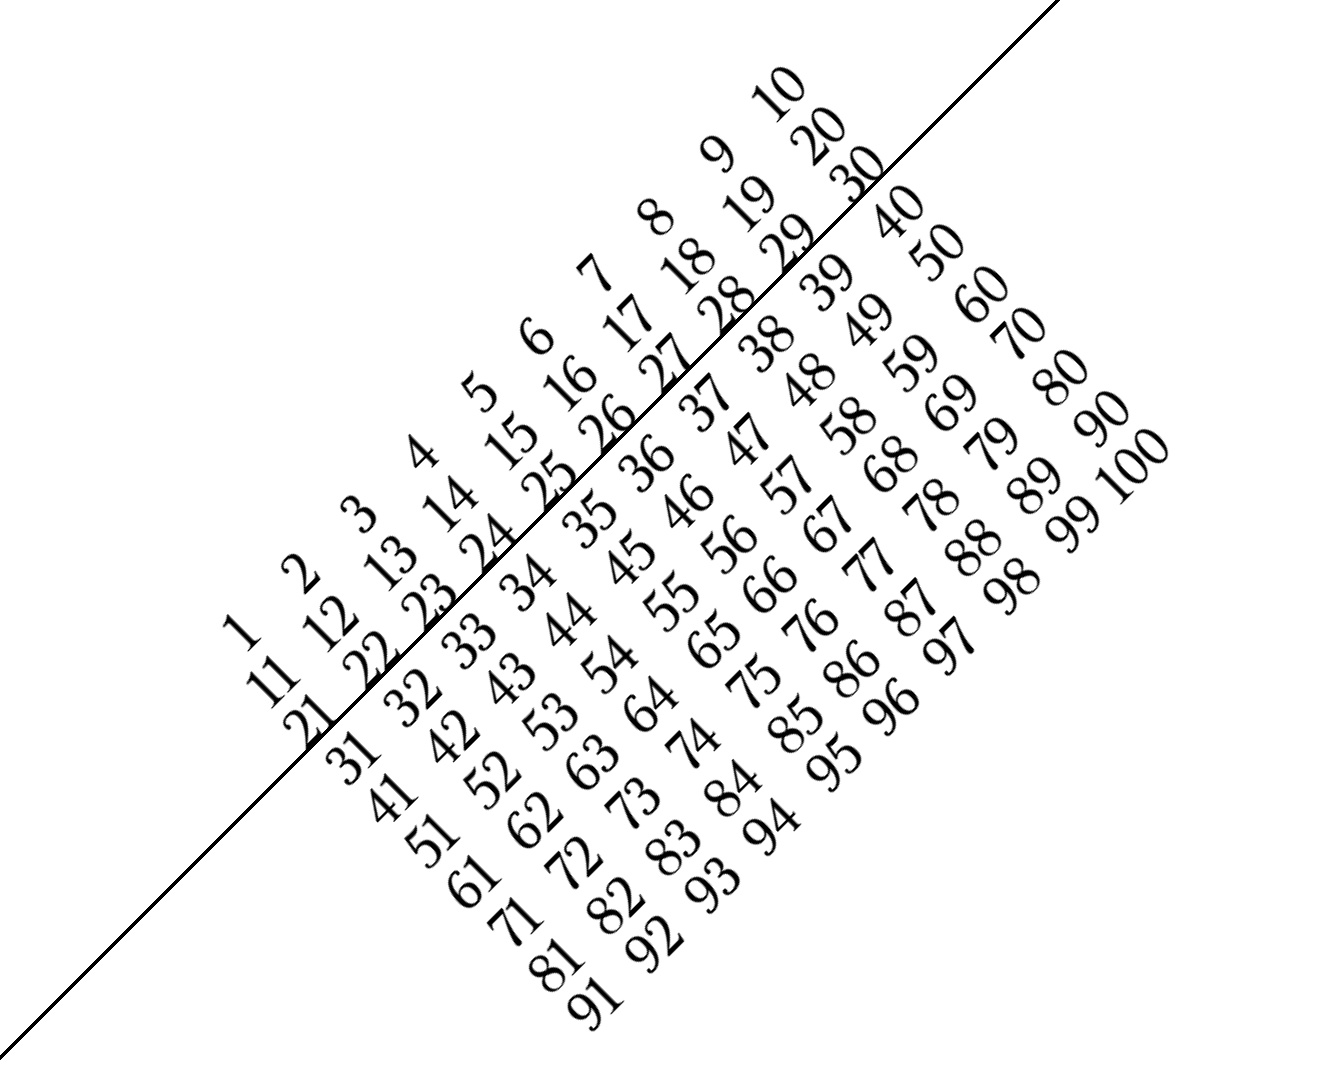
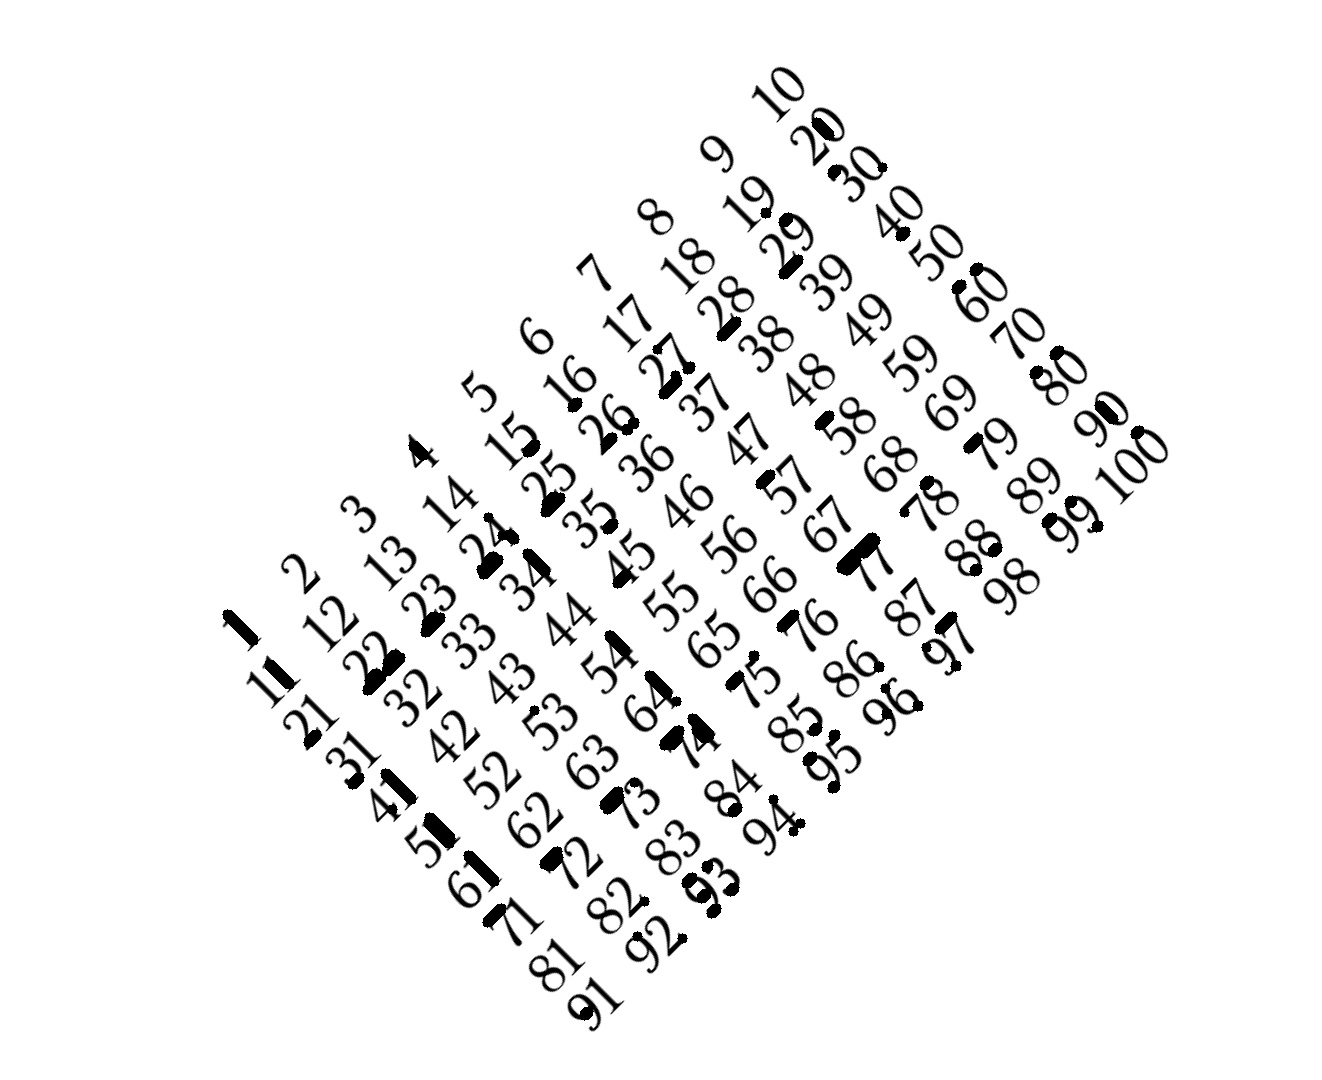
update on sad_text_allignment

diff --git a/src/sad_text_allignment.py b/src/sad_text_allignment.py
@@ -15,38 +15,24 @@ def find_lines(img):
     #plt.imshow(edges,cmap = 'gray')
     #plt.show()
 
-    lines = cv2.HoughLines(edges,1,np.pi/180,100)
-    for x in lines[0]:
-        print(x)
+    lines = cv2.HoughLinesP(edges,1,np.pi/180,200)
+
+    #print(lines[0][0])
+    #for x,y,z,a in lines[0]:
+    #    print(x, y, z, a)
     #plt.imshow(lines)
     #plt.show()
 
+    N = lines.shape[0]
+    for i in range(N):
+        x1 = lines[i][0][0]
+        y1 = lines[i][0][1]
+        x2 = lines[i][0][2]
+        y2 = lines[i][0][3]
 
-    for rho,theta in lines[0]:
-        a = np.cos(theta)
-        b = np.sin(theta)
-        x0 = a*rho
-        y0 = b*rho
-        x1 = int(x0 + 1000*(-b))
-        y1 = int(y0 + 1000*(a))
-        x2 = int(x0 - 1000*(-b))
-        y2 = int(y0 - 1000*(a))
-
-        cv2.line(img,(x1,y1),(x2,y2),(0,0,255),2)
+        cv2.line(img,(x1,y1),(x2,y2),(0,0,255),10)
 
     cv2.imwrite('houghlines3.jpg',img)
-
-
-    '''
-    # Probabolistic Hoguh transform
-
-    minLineLength = 100
-    maxLineGap = 10
-    lines = cv2.HoughLinesP(edges,1,np.pi/180,100,minLineLength,maxLineGap)
-    for x1,y1,x2,y2 in lines[0]:
-        cv2.line(img,(x1,y1),(x2,y2),(0,255,0),2)
-    cv2.imwrite('houghlines5.jpg',img)
-    '''
 
 
 if __name__ == "__main__":
